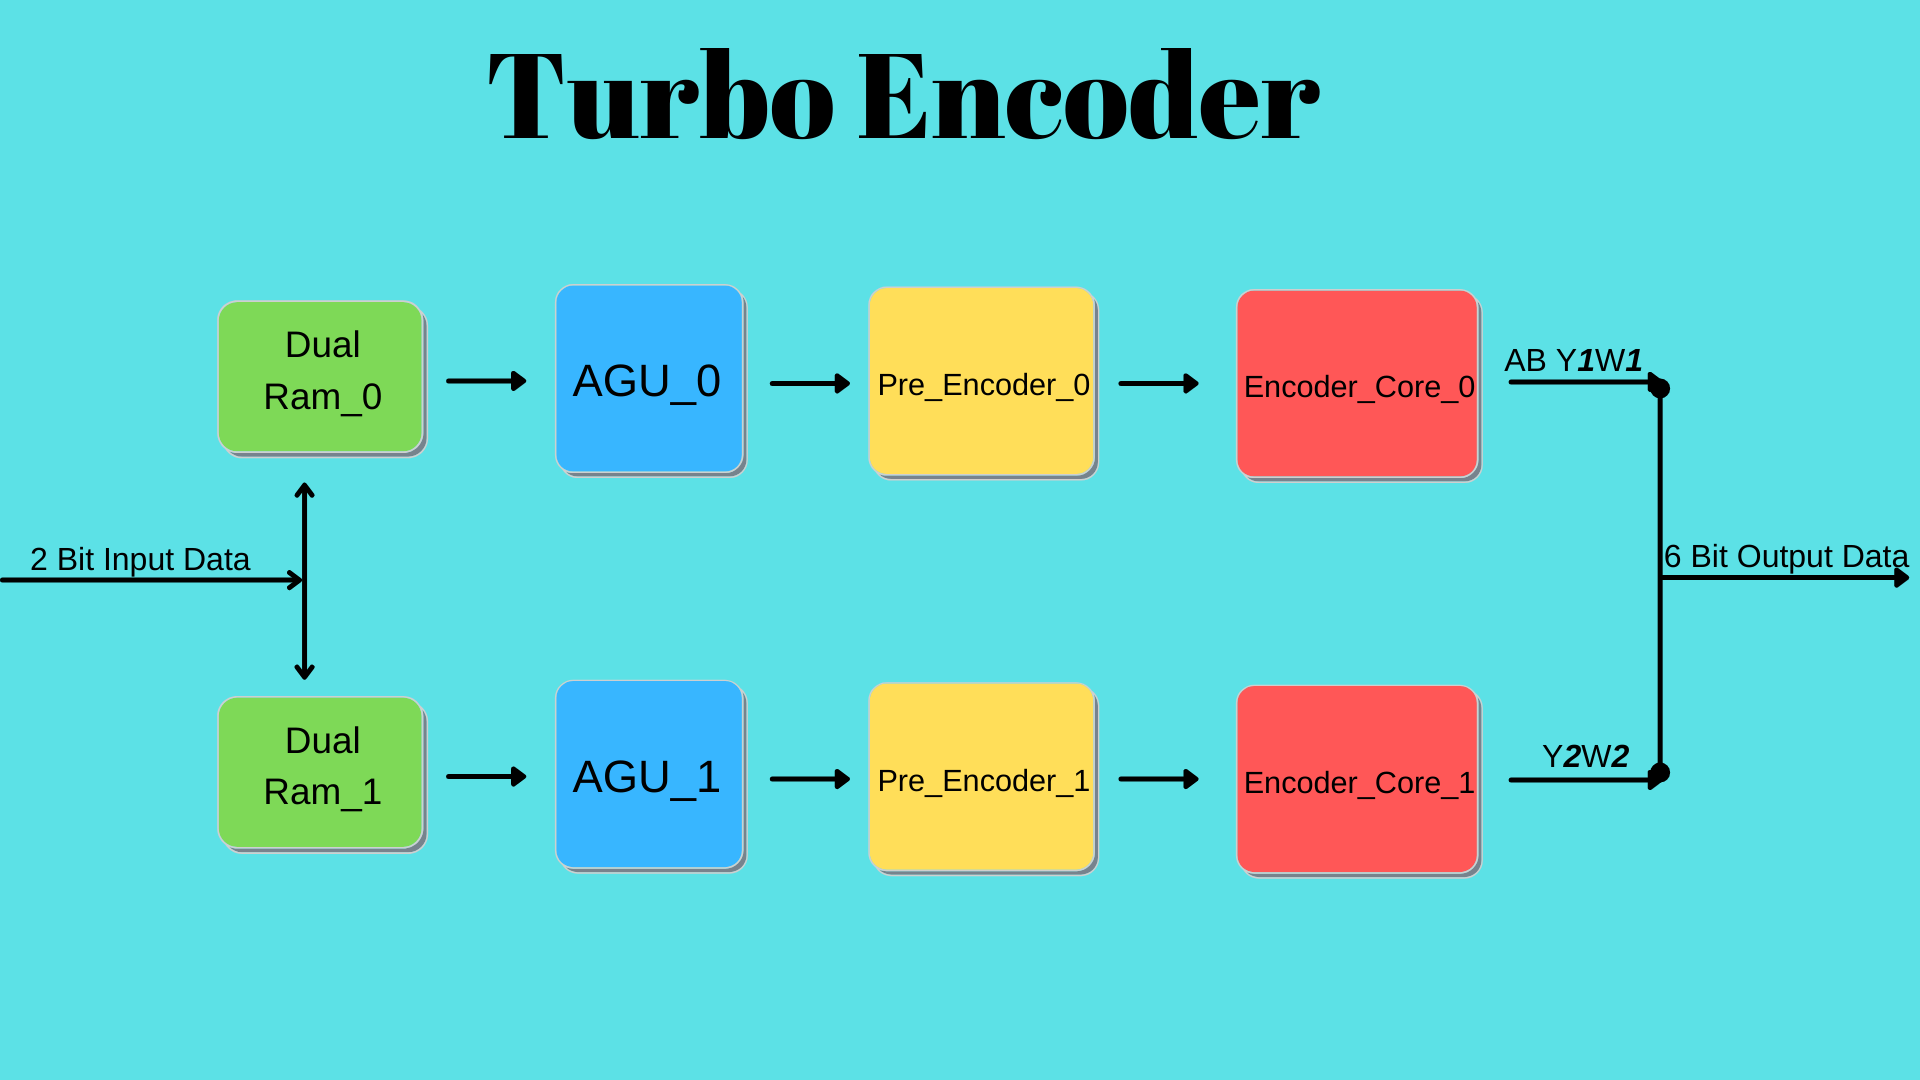
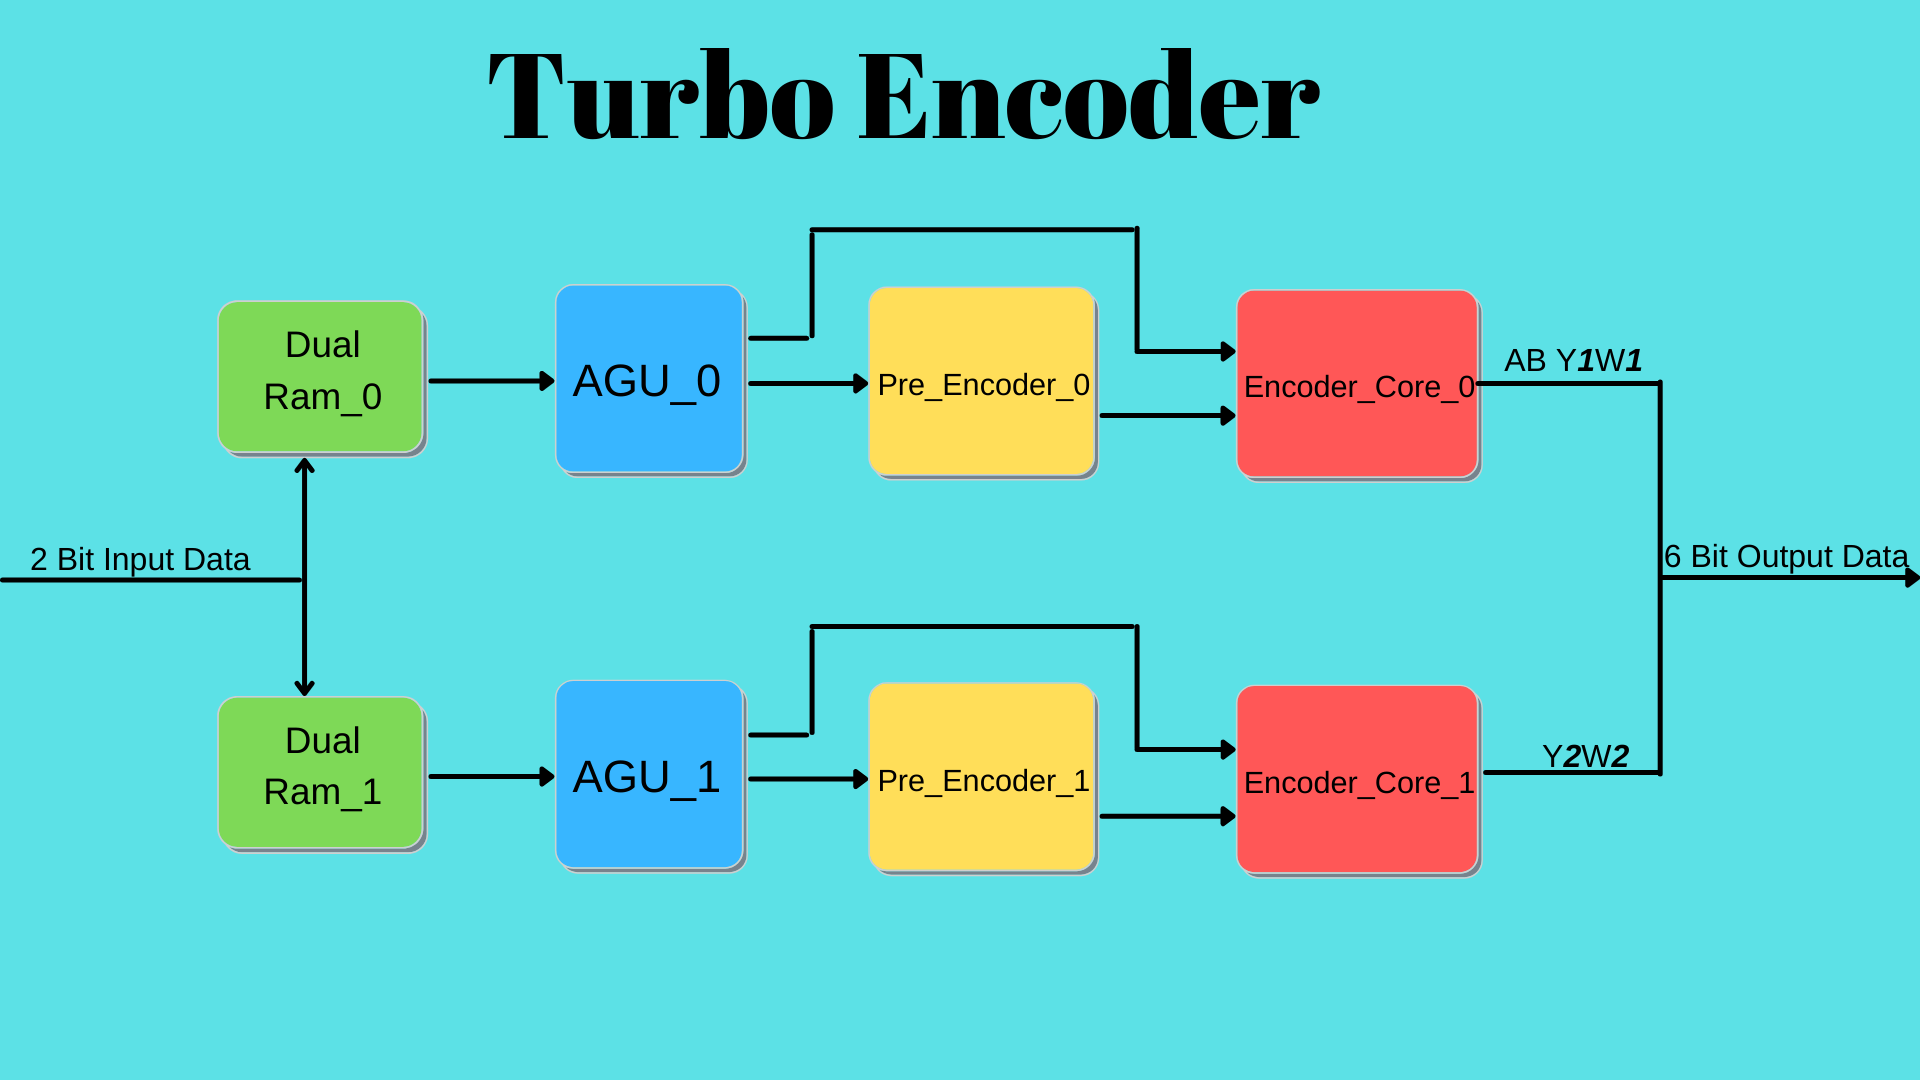
encoder_schematic edited

diff --git a/README.md b/README.md
@@ -13,21 +13,24 @@ Table of contents
 
 Overview
 ========
+#### DVB-RCS2 Turbo Encoder
 
 The Turbo Encoder is used for FEC encoding for linear modulation.
 
 Encoder takes 2 bits of input (namely A and B) and generates 6 bits of output in the form (AB Y1W1 Y2W2)
 
-First couple of parity bits (Y1W1) are generated from normal ordered input data while second couple of parity bits (Y2W2) are generated from interleaved input data.
+First couple of parity bits (Y1W1) are generated from linearly ordered input data while second couple of parity bits (Y2W2) are generated from interleaved input data.
 
-The design involves two paths one of which is used for interleaved input data.
+The design involves two paths: 
+1) Linear order path
+2) Interleaved path
 
 #### Top-Level Diagram
 ![alt text](docs/images/encoder_schematic.png)
 
 -Input Data is stored at dual channel rams. 
 
--AGU (Address Generator Unit) generates data indices for interleaving.
+-AGU's (Address Generator Unit) generate data indices for linearly ordered and interleaved data inputs.
 
 -Pre Encoder unit identifies initial state of the encoder.
 
